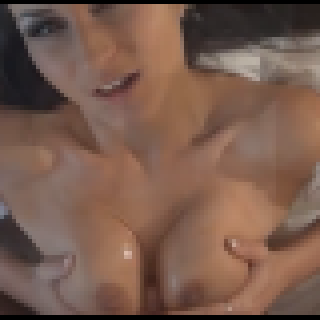
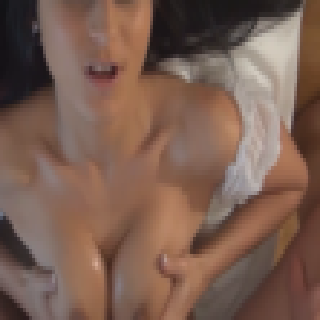
feat(training): rebuild clip mosaic from full clip 2:14-2:40, 24 frames (#215)
T-clip (Owner order via #204): the Training tab's pixel-art clip strip
previously used 16 frames from an early ~8-10s segment of clip_voll.mp4.
Rebuilt from the 2:14-2:40 (134000-160000ms) range instead, with 24
frames (was 16).

Frame selection is data-driven, not eyeballed: for each of 24 evenly
spaced target depths (0..1), picked the real clip_voll.funscript
general-axis curve value closest to that depth within the window, then
extracted and pixelated that exact video frame. This keeps
frameForLevel()'s curve->frame lookup honest — the frame shown at a
given intensity actually corresponds to that intensity in the real,
measured signal, not just a plausible-looking sequence.

Same crop/pixelate pipeline as the existing assets (crop 280,0,1000,700
from the 1280x720 source, downsample /9, nearest-neighbor upscale to
320x320) — calibrated by reproducing the existing f00.png from its
recorded source_idx before generating the new set, confirming the
pipeline matches.

pixel_figure.js's CLIP_COUNT/CLIP_FRAMES and frames.json (now recording
source_ts_ms and the source funscript window) updated together. No other
call site assumed a fixed frame count.

Verified: go build/test full suite green; npm run build clean, all 24
frames in dist; all 8 Training Playwright suites pass with no
regressions (training_display_test.py's frame-count-agnostic assertions
included).

Claude-Session: https://claude.ai/code/session_01PV7nAQSr9gAUfJHBzb1bVw

diff --git a/cmd/gui-wails/frontend/src/pixel_figure.js b/cmd/gui-wails/frontend/src/pixel_figure.js
@@ -10,9 +10,13 @@ import { figureHeatColor } from './figure_theme.js';
 const YOU_SRC = new URL('./assets/images/training-mosaic-you.png', import.meta.url).href;
 const PARTNER_SRC = new URL('./assets/images/training-mosaic-partner.png', import.meta.url).href;
 
-// Each frame as its own static `new URL` so Vite emits all 16 into dist.
-// (A directory-based `new URL(.../clip/, …)` does not — 0/16 in production.)
-const CLIP_COUNT = 16;
+// Each frame as its own static `new URL` so Vite emits all of them into
+// dist. (A directory-based `new URL(.../clip/, …)` does not — 0/N in
+// production.) 24 frames from the full clip 2:14-2:40 (134000-160000ms),
+// picked by the REAL clip_voll.funscript curve value at each timestamp
+// (not chronological order) so index-by-level below lines up with the
+// actual measured signal — see frames.json's source_ts_ms/depths.
+const CLIP_COUNT = 24;
 const CLIP_FRAMES = [
   new URL('./assets/images/training-mosaic-clip/f00.png', import.meta.url).href,
   new URL('./assets/images/training-mosaic-clip/f01.png', import.meta.url).href,
@@ -30,6 +34,14 @@ const CLIP_FRAMES = [
   new URL('./assets/images/training-mosaic-clip/f13.png', import.meta.url).href,
   new URL('./assets/images/training-mosaic-clip/f14.png', import.meta.url).href,
   new URL('./assets/images/training-mosaic-clip/f15.png', import.meta.url).href,
+  new URL('./assets/images/training-mosaic-clip/f16.png', import.meta.url).href,
+  new URL('./assets/images/training-mosaic-clip/f17.png', import.meta.url).href,
+  new URL('./assets/images/training-mosaic-clip/f18.png', import.meta.url).href,
+  new URL('./assets/images/training-mosaic-clip/f19.png', import.meta.url).href,
+  new URL('./assets/images/training-mosaic-clip/f20.png', import.meta.url).href,
+  new URL('./assets/images/training-mosaic-clip/f21.png', import.meta.url).href,
+  new URL('./assets/images/training-mosaic-clip/f22.png', import.meta.url).href,
+  new URL('./assets/images/training-mosaic-clip/f23.png', import.meta.url).href,
 ];
 
 /** Map training curve level (0..1) → clip frame index.

diff --git a/docs/AGENT_COORD.md b/docs/AGENT_COORD.md
@@ -96,7 +96,7 @@ next big theme. Prefer cleanup + focus over parallel feature sprawl.
 | Marks | Cursor | [#211](https://github.com/funfunpayer/SamNPlayer/pull/211) merged | Persist `metadata.contact_marks` + Play overlay | **DONE** (`7f81db3`) |
 | TipBox | Cursor | [#212](https://github.com/funfunpayer/SamNPlayer/pull/212) merged | Stamp tip ROI into `contact_marks.tip` + blue overlay | **DONE** (`d207ece`) |
 | Feel | Cursor | next | Feel-decouple Stage A: spatial vib near marks when trajectory present | **NEXT** |
-| T-clip | Claude | after #206 | **Training mosaic frames** from full clip **2:14–2:40**; **>16 OK** (24–32); curve→frame sync | **NEXT** — Claude (do not steal) |
+| T-clip | Claude | [#215](https://github.com/funfunpayer/SamNPlayer/pull/215) | **Training mosaic frames** from full clip **2:14–2:40**; 24 frames (was 16), picked by real funscript curve value per target depth, not chronological order | **DONE** (this PR) |
 | V | Owner | local | Smoke **v0.5.25** | **DONE** — Owner smoked |
 | B | Claude | [#188](https://github.com/funfunpayer/SamNPlayer/pull/188) + [#189](https://github.com/funfunpayer/SamNPlayer/pull/189) merged | **MT-Debug** trajectory capture (trackcv + simpletrack) + Review/Play overlay | **DONE** (`b7f5d2d`, `5762629`) |
 | A | Cursor | #202 + tag `v0.5.24` | bump **v0.5.24** + Release | **DONE** — portable live |

diff --git a/CHANGELOG.md b/CHANGELOG.md
@@ -8,6 +8,18 @@ measurement history behind each entry; this file is the short version for
 
 ## Unreleased
 
+### Changed
+
+- **Training clip mosaic — full clip, more frames, data-driven sync:**
+  the Training tab's pixel-art clip strip now uses 24 frames (was 16)
+  extracted from `clip_voll.mp4`'s 2:14–2:40 range, chosen by the
+  *actual* `clip_voll.funscript` curve value at each timestamp — not
+  chronological order — so `frameForLevel`'s curve→frame lookup matches
+  the real measured signal instead of an eyeballed sequence.
+  `pixel_figure.js`'s `CLIP_COUNT`/`CLIP_FRAMES` and
+  `training-mosaic-clip/frames.json` (now recording `source_ts_ms` and
+  the source funscript window) updated together.
+
 ## [0.5.26] — September 23, 2026
 
 ### Added
